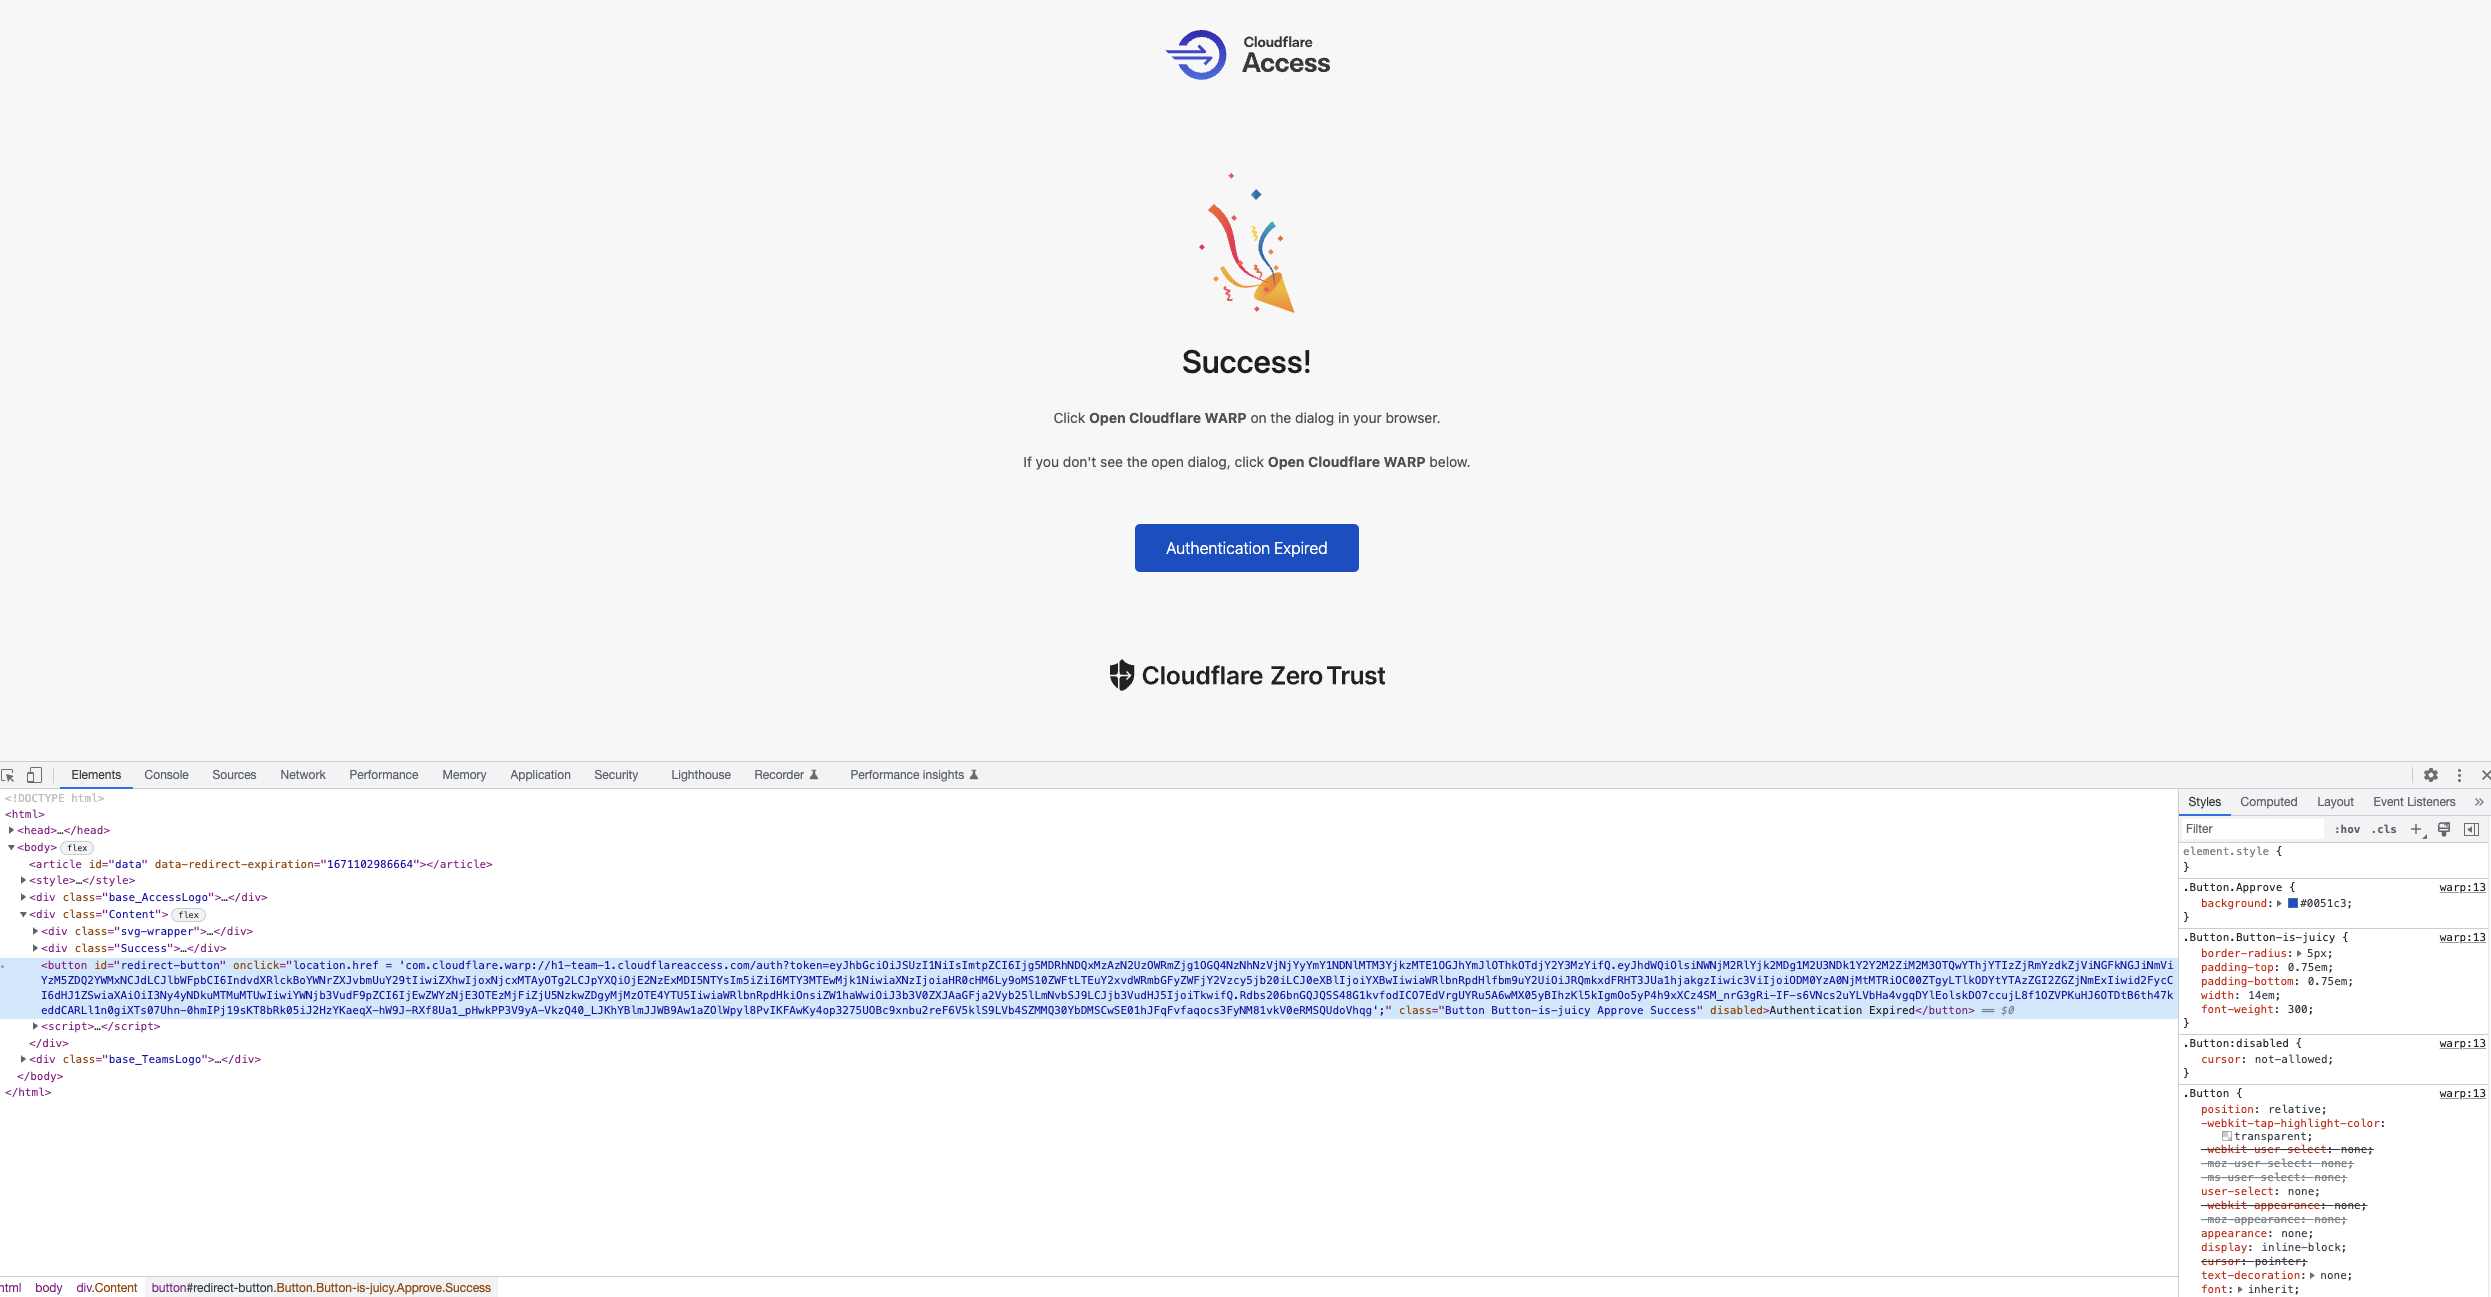
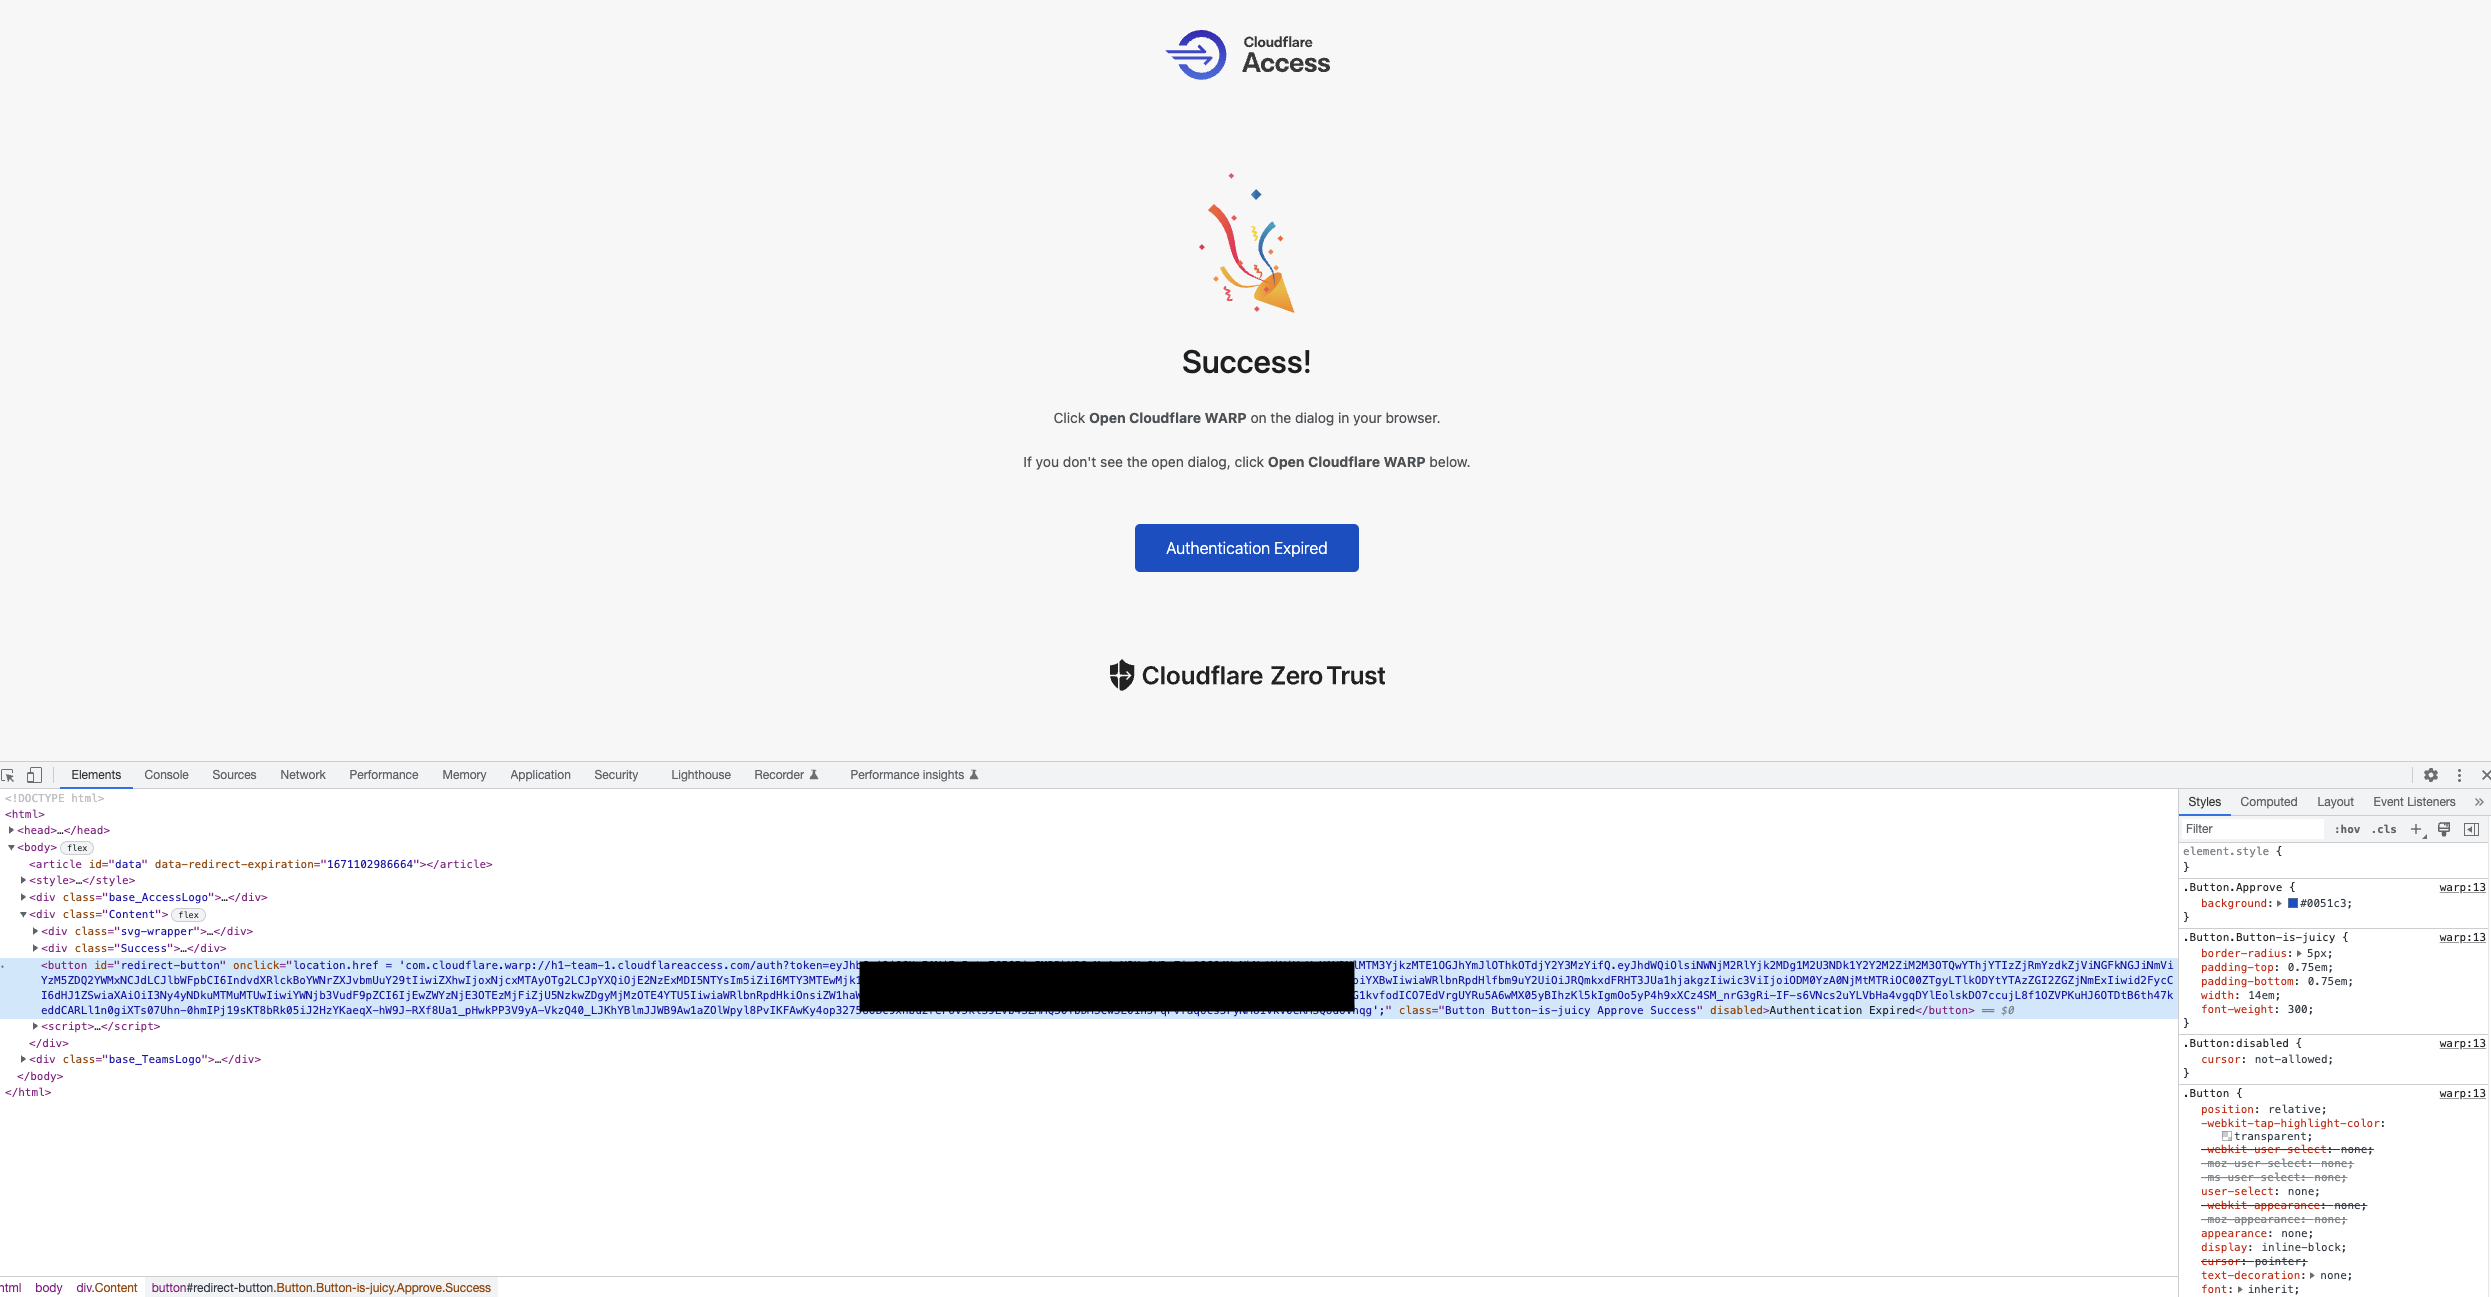
remove sensitive data

Changed region(s): [[0.34, 0.7402, 0.5564, 0.8019]]

diff --git a/docs/hackers/warp-client-config.md b/docs/hackers/warp-client-config.md
@@ -1,5 +1,5 @@
 ---
-title: "Configure the WARP Client for a specific Program"
+title: "Configure Client for a specific Program"
 path: "/hackers/warp-client-config.html"
 id: "hackers/warp-client-config"
 ---
@@ -55,7 +55,7 @@ Then within 30 seconds of authenticating. Copy the token and use it in terminal:
 ```console
 warp-cli teams-enroll-token com.cloudflare.warp://h1-team-4.cloudflareaccess.com/auth?token=eyJhbGciOiJSU...
 ```
-If you are too slow you get the following error:
+If the timer runs out before you enter the token you will get the following error:
 ```console
 Error: Invalid JWT provided.
 ```
